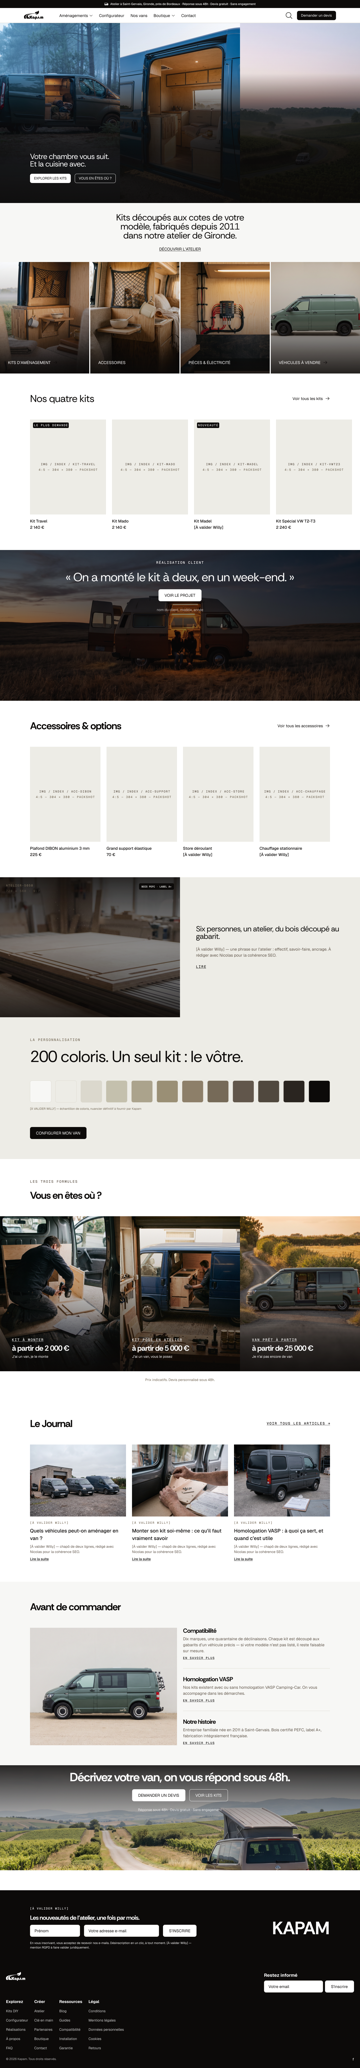
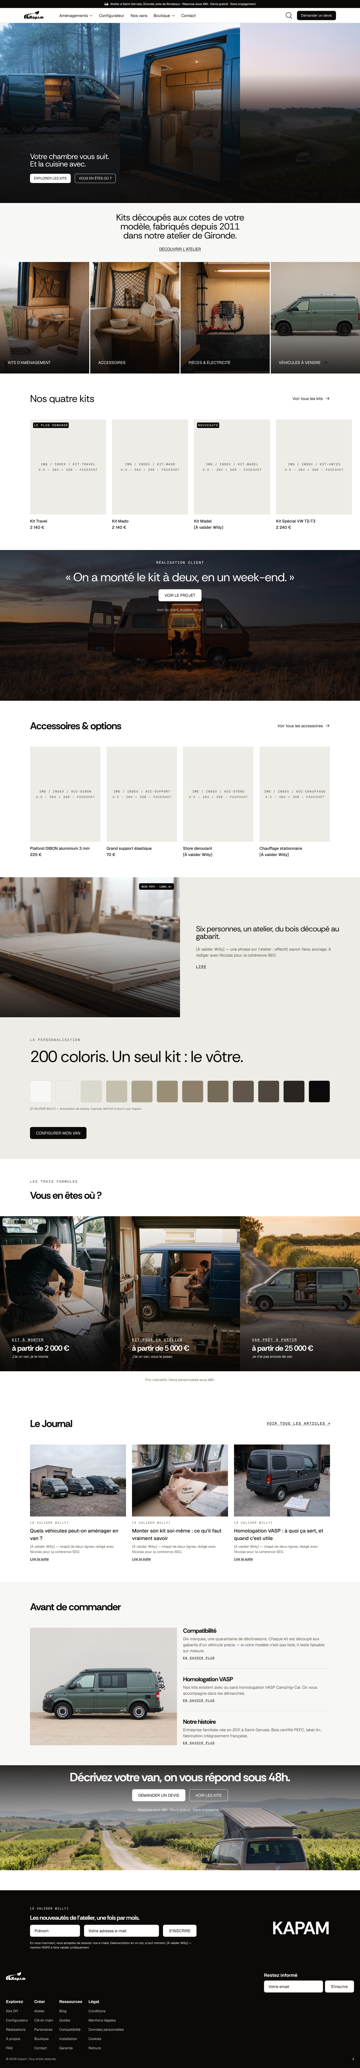
Passe de rangement sur le fichier Figma
Audit avant intervention, cinq problèmes réels dont un non vu jusqu'ici.

1. La v5 était posée par-dessus une image de référence déjà présente sur la
   page. Mes captures de section ne pouvaient pas le montrer, elles cadrent
   la frame et pas le canvas. La v5 et son archive sont maintenant dans une
   section Figma nommée, placée sous la page et alignée sur le bord gauche
   de la v4, collisions vérifiées contre les 63 nœuds de la page : zéro.
   L'image parasite n'a pas bougé, ce n'est pas mon contenu.

2. L'archive était en vrac et j'y avais cassé un élément : l'article
   JOURNAL-04 était écrasé à 1 px de haut. Restauré à 393 px. L'archive a
   maintenant un en-tête et une légende par élément disant quel ticket l'a
   retiré et pourquoi. L'eyebrow archivé (texte blanc, invisible sur fond
   clair) est posé sur une pastille sombre sans être modifié.

3. Onze noms de calque ne décrivaient plus leur contenu : quatre tuiles
   disaient encore 1:1, le rail "débordement horizontal" ne déborde plus,
   S11 et S8 contredisaient leur propre titre, et trois descriptions
   d'image parlaient des anciens placeholders.

4. Les libellés de slot étaient incohérents : 30 masqués, 2 visibles qui
   s'affichaient comme du texte de debug sur une photo posée. Alignés.

5. Le scrim haut que j'avais ajouté sur l'atelier ne servait plus à rien
   depuis que l'eyebrow est masqué. Supprimé.

Balayage final : aucune frame vide, aucun nœud de taille nulle, aucun
[…]

Changed region(s): [[0.0, 0.4023, 0.5194, 0.4952]]

diff --git a/kapam-v5/LIENS-FIGMA.md b/kapam-v5/LIENS-FIGMA.md
@@ -6,6 +6,8 @@ Chaque lien ouvre le node directement. Les 74 nodes ont été vérifiés comme e
 
 ## Point d'entrée
 
+- [🚐 Kapam — Boutique / Index v5 (loop) — travail en cours](https://www.figma.com/design/oGJVoOgpCvgf0DnCJTBLdU/Kapam?node-id=8730-47169) — **la section qui contient tout** (v5 + archive). Placée sous la page, alignée sur le bord gauche de la v4.
+
 - [Kapam / Boutique — Index — v5 (loop)](https://www.figma.com/design/oGJVoOgpCvgf0DnCJTBLdU/Kapam?node-id=8636-46929) — **la maquette v5** — 1440 × 8272
 - [Kapam / Boutique — Index — v4 (modèle MR)](https://www.figma.com/design/oGJVoOgpCvgf0DnCJTBLdU/Kapam?node-id=8537-32271) — la v4 d'origine, **non modifiée**, pour comparaison
 - [_Archive v5](https://www.figma.com/design/oGJVoOgpCvgf0DnCJTBLdU/Kapam?node-id=8636-47137) — les 6 éléments sortis de la page, jamais supprimés
@@ -69,8 +71,8 @@ Section : [S8 — Atelier](https://www.figma.com/design/oGJVoOgpCvgf0DnCJTBLdU/K
 
 Section : [S5 — Carrousel kits](https://www.figma.com/design/oGJVoOgpCvgf0DnCJTBLdU/Kapam?node-id=8636-46976)
 
-- [Grille accessoires (4 colonnes)](https://www.figma.com/design/oGJVoOgpCvgf0DnCJTBLdU/Kapam?node-id=8636-47005) — rail → grille, cards à 282 px
-- [Rail produits](https://www.figma.com/design/oGJVoOgpCvgf0DnCJTBLdU/Kapam?node-id=8636-46980) — tuile éditoriale retirée
+- [Grille accessoires — 4 colonnes](https://www.figma.com/design/oGJVoOgpCvgf0DnCJTBLdU/Kapam?node-id=8636-47005) — rail → grille, cards à 282 px
+- [Rail produits — 4 kits](https://www.figma.com/design/oGJVoOgpCvgf0DnCJTBLdU/Kapam?node-id=8636-46980) — tuile éditoriale retirée
 - [[v5 retiré] Tuile éditoriale — Kits](https://www.figma.com/design/oGJVoOgpCvgf0DnCJTBLdU/Kapam?node-id=8636-46981) — **archivé**
 - [[v5 retiré] Tuile éditoriale — Accessoires](https://www.figma.com/design/oGJVoOgpCvgf0DnCJTBLdU/Kapam?node-id=8636-47006) — **archivé**
 
@@ -79,10 +81,10 @@ Section : [S5 — Carrousel kits](https://www.figma.com/design/oGJVoOgpCvgf0DnCJ
 Section : [S4 — Les familles](https://www.figma.com/design/oGJVoOgpCvgf0DnCJTBLdU/Kapam?node-id=8636-46954)
 
 - [Bande familles](https://www.figma.com/design/oGJVoOgpCvgf0DnCJTBLdU/Kapam?node-id=8636-46955) — **annotation hover** posée ici
-- [Tuile FAMILLE-KITS](https://www.figma.com/design/oGJVoOgpCvgf0DnCJTBLdU/Kapam?node-id=8636-46956) — 1:1 → 4:5 (357 × 446)
-- [Tuile FAMILLE-ACCESSOIRES](https://www.figma.com/design/oGJVoOgpCvgf0DnCJTBLdU/Kapam?node-id=8636-46961) — 4:5
-- [Tuile FAMILLE-PIECES](https://www.figma.com/design/oGJVoOgpCvgf0DnCJTBLdU/Kapam?node-id=8636-46966) — 4:5
-- [Tuile FAMILLE-VEHICULES](https://www.figma.com/design/oGJVoOgpCvgf0DnCJTBLdU/Kapam?node-id=8636-46971) — 4:5
+- [Tuile FAMILLE-KITS (4:5)](https://www.figma.com/design/oGJVoOgpCvgf0DnCJTBLdU/Kapam?node-id=8636-46956) — 1:1 → 4:5 (357 × 446)
+- [Tuile FAMILLE-ACCESSOIRES (4:5)](https://www.figma.com/design/oGJVoOgpCvgf0DnCJTBLdU/Kapam?node-id=8636-46961) — 4:5
+- [Tuile FAMILLE-PIECES (4:5)](https://www.figma.com/design/oGJVoOgpCvgf0DnCJTBLdU/Kapam?node-id=8636-46966) — 4:5
+- [Tuile FAMILLE-VEHICULES (4:5)](https://www.figma.com/design/oGJVoOgpCvgf0DnCJTBLdU/Kapam?node-id=8636-46971) — 4:5
 - [Lien — KITS D'AMÉNAGEMENT](https://www.figma.com/design/oGJVoOgpCvgf0DnCJTBLdU/Kapam?node-id=8636-46960) — bas gauche + flèche + hover
 - [Lien — ACCESSOIRES](https://www.figma.com/design/oGJVoOgpCvgf0DnCJTBLdU/Kapam?node-id=8636-46965) — idem
 - [Lien — PIÈCES & ÉLECTRICITÉ](https://www.figma.com/design/oGJVoOgpCvgf0DnCJTBLdU/Kapam?node-id=8636-46970) — idem
@@ -139,3 +141,14 @@ Les styles n'ont pas d'URL de node. Ils sont dans le panneau **Local styles** du
 
 - [S6 — Bandeau éditorial · Réalisation client](https://www.figma.com/design/oGJVoOgpCvgf0DnCJTBLdU/Kapam?node-id=8636-46991) — référence, principe intact
 - [Kapam / Boutique — Index — v4](https://www.figma.com/design/oGJVoOgpCvgf0DnCJTBLdU/Kapam?node-id=8537-32271) — la v4 entière
+
+## Ajouté par la passe de rangement
+
+- [Section 🚐 Index v5 (loop)](https://www.figma.com/design/oGJVoOgpCvgf0DnCJTBLdU/Kapam?node-id=8730-47169) — conteneur de la v5 et de l'archive
+- [_Archive v5 (rangée)](https://www.figma.com/design/oGJVoOgpCvgf0DnCJTBLdU/Kapam?node-id=8636-47137) — en-tête + une légende par élément retiré, disant quel ticket et pourquoi
+- [[v5 retiré] Article — JOURNAL-04](https://www.figma.com/design/oGJVoOgpCvgf0DnCJTBLdU/Kapam?node-id=8636-47087) — réparé, il était écrasé à 1 px de haut
+
+Onze calques ont été renommés parce que leur nom ne décrivait plus leur contenu, et les deux
+libellés de placeholder encore visibles (`ATELIER-5050`) ont été masqués pour rejoindre les 30
+autres. Le `Scrim haut` que j'avais posé sur l'image de l'atelier a été supprimé : il ne servait
+plus à rien. Détail complet dans `JOURNAL.md`, section « Passe de rangement ».

diff --git a/kapam-v5/JOURNAL.md b/kapam-v5/JOURNAL.md
@@ -656,3 +656,76 @@ fichier (la v4 faisait pareil). À retirer d'un bloc quand les 14 slots seront s
 - **Les 6 slots ancrés** (`HERO-02`, `FAMILLE-KITS`, `FAMILLE-ACCESSOIRES`, `FAMILLE-PIECES`,
   `FORMULE-DIY`, `FORMULE-ATELIER`) gardent leurs placeholders v4. C'est pour ça que les tuiles 1
   et 2 de S4 se ressemblent encore : ce sont deux slots ancrés, pas un défaut de mise en page.
+
+---
+
+# Passe de rangement
+
+Demande de Thomas : « c'est un peu le bordel sur le fichier là où tu as travaillé ». Audit fait
+avant de toucher quoi que ce soit. Cinq problèmes réels, dont un que je n'avais pas vu.
+
+## 1. La v5 était posée par-dessus une image qui traînait sur la page
+
+Défaut que mes captures de section ne pouvaient pas montrer : elles cadrent la frame, pas le canvas.
+Au niveau page, la v5 (`x −48548 → −47108`) chevauchait le rectangle
+`Gemini_Generated_Image_qil2cr…` (`x −48586 → −46730`, `y 29937 → 32241`) déjà présent dans le
+fichier. Je l'avais placée à « v4 + largeur + 400 » sans vérifier les collisions.
+
+**Fait :** création d'une **section Figma** `🚐 Kapam — Boutique / Index v5 (loop) — travail en cours`
+(`8730:47169`) qui contient la v5 **et** son archive. Placée en `x −50388, y 48517` — sous tout le
+contenu de la page, **alignée au pixel sur le bord gauche de la v4** : on descend depuis la v4 et on
+tombe dessus. Collisions vérifiées par calcul contre les 63 nœuds de la page : **zéro**.
+L'image parasite n'a pas été déplacée : ce n'est pas mon contenu, c'est la v5 qui bouge.
+
+## 2. L'archive était en vrac — et j'y avais cassé un élément
+
+`[v5 retiré] Article — JOURNAL-04` était **écrasé à 1 px de haut** : en l'archivant j'avais forcé sa
+largeur sans rétablir son `layoutSizingVertical`. Restauré à **393 px**.
+
+L'archive avait aussi six éléments empilés sans un mot d'explication. Reconstruite :
+- en-tête `_Archive v5` + note disant que rien n'est supprimé et que tout est réinsérable ;
+- **chaque élément est précédé du ticket responsable et de la raison** de son retrait ;
+- l'eyebrow archivé est du texte blanc, donc invisible sur le fond clair de l'archive : il est posé
+  sur une pastille `bg/invert` **sans modifier l'élément** (son fill reste lié à `text/on-invert`,
+  il se réinsère tel quel).
+
+## 3. Onze noms de calque ne décrivaient plus leur contenu
+
+| Avant | Après | Pourquoi |
+|---|---|---|
+| `IMG / … FAMILLE-KITS — 1:1 — …` (× 4) | `— 4:5 —` | les tuiles sont passées en 4:5 en A7 |
+| `… FAMILLE-VEHICULES — … garé en lisière de pinède` | `… Van de profil strict sur fond clair uni` | décrivait l'ancien placeholder, pas le visuel posé |
+| `… CTA-FINAL — … Van seul au crépuscule` | `… Van sur une route ouverte qui s'éloigne, plein jour` | idem |
+| `… FORMULE-CLE — … petit matin` | `… fin de journée` | idem |
+| `Rail produits (débordement horizontal)` | `Rail produits — 4 kits` | il ne déborde plus depuis A6 |
+| `S11 — En savoir plus` | `S11 — Avant de commander` | contredisait son propre titre depuis A10 |
+| `S8 — Bloc 50/50 · Atelier / Personnalisation` | `S8 — Bloc 50/50 · Atelier` | la Personnalisation est sortie en S8b |
+
+## 4. Les libellés de slot étaient incohérents
+
+Sur les 32 libellés de placeholder de la page, **30 étaient masqués** — c'est la convention du
+fichier. Les deux de `ATELIER-5050` étaient les seuls visibles, et depuis la pose du visuel ils
+s'affichaient comme du texte de debug sur une photo. Masqués : **0 libellé visible**, convention
+respectée partout.
+
+## 5. Un reste à moi
+
+Le `Scrim haut` que j'avais ajouté sur l'image de l'atelier en A5 n'existait que pour rendre cet
+eyebrow lisible. L'eyebrow étant masqué, le scrim assombrissait le haut de la photo pour rien :
+**supprimé**. C'était mon échafaudage, le style `overlay/scrim-top` reste dans le fichier et sert
+toujours au CTA final.
+
+## Balayage final
+
+Aucune frame vide, aucun nœud de taille nulle, aucun calque auto-nommé (`Frame 12`, `Rectangle 4`…)
+ni dans la v5 ni dans l'archive. La sonde de mesure typographique créée pendant A8 avait déjà été
+supprimée dans le même script. Rendu pleine page revérifié après rangement : **identique**, rien n'a
+bougé.
+
+## Laissé volontairement en l'état
+
+- Le **`Scrim bas`** de l'image atelier : lui n'est pas de moi, il vient de la v4. Il n'a plus
+  d'objet depuis que le texte a quitté l'image, mais supprimer du contenu d'origine sur une consigne
+  implicite serait aller trop loin. Il reste dans les arbitrages.
+- Le **rectangle `Gemini_Generated_Image_qil2cr…`** et les autres images de référence de la page :
+  contenu de Thomas, pas touché.
